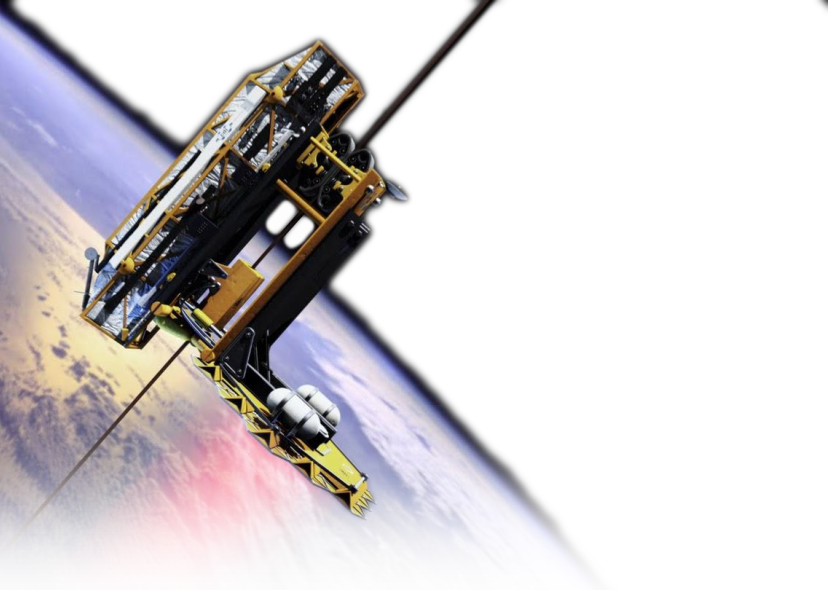
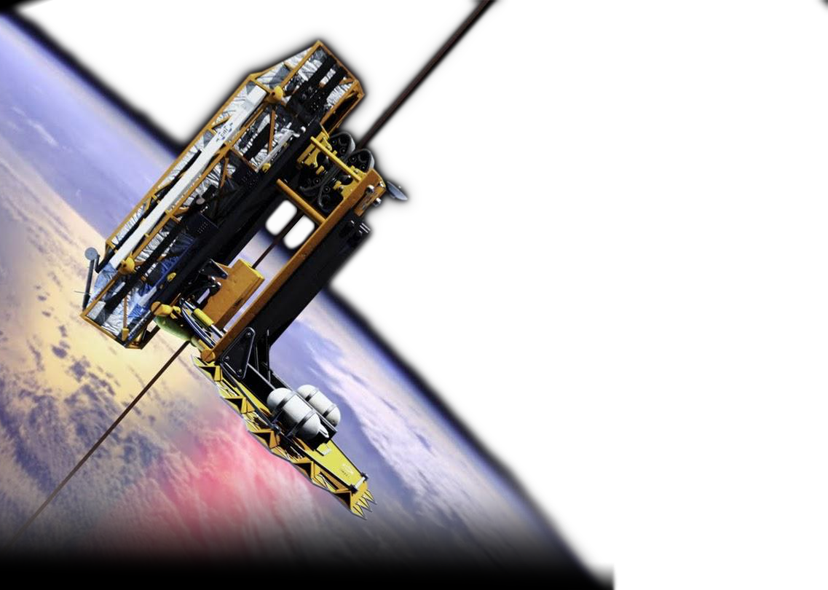
new homepage

diff --git a/styles/main.css b/styles/main.css
@@ -58,13 +58,14 @@ textarea { overflow: auto; } /* prevents scrollbar from showing up when unneeded
 html {
   min-width: 320px;
   min-height: 100%;
-  background: #fff;
+  background: url('../images/garage.jpg') center center / cover no-repeat;
 }
 
 body {
   position: relative;
   margin: 0 auto;
   background: url('../images/space.jpg');
+  box-shadow: 0 0 35px 10px black;
   min-height: 100%;
   max-width: 2000px;
   font-family: 'meteoric', sans-serif;
@@ -79,13 +80,22 @@ h4 { font-size: 2em; }
 h5 { font-size: 1.75em; }
 h6 { font-size: 1.5em; }
 
+a {
+  color: white;
+  font-weight: bold;
+  font-family: 'meteoric';
+  text-decoration: none;
+  border-bottom: 1px solid #000;
+  transition: .5s;
+}
+
+a:hover {
+  color: #777;
+  border-color: #777;
+}
+
 div#rise.hidden { opacity: 0; top: 100px; }
 div#rise {
-  position: absolute;
-  top: 0;
-  left: 0;
-  right: 0;
-  z-index: 1;
   background: url('../images/rise.png') 25% top / cover no-repeat;
   width: 100%;
   height: 100%;
@@ -98,7 +108,10 @@ div#rise {
 /* Header - Logo and Navigation */
 
 header#site-header {
-  position: relative;
+  position: absolute;
+  top: 0;
+  left: 0;
+  right: 0;
   max-width: 1100px;
   margin: auto;
   padding: .75rem;
@@ -240,9 +253,18 @@ div.logo a:hover {
 
 section#banner {
   position: relative;
+  background: url('../images/rise.png') 25% top / cover no-repeat;
+  min-height: 500px;
   height: 100vh;
   text-align: right;
   z-index: 1;
+}
+
+/* I learned a new trick, cool */
+@media all and (min-aspect-ratio: 414/295) {
+  section#banner {
+    background: url('../images/rise.png') left top / contain no-repeat;
+  }
 }
 
 h1.headline {
@@ -255,11 +277,13 @@ h1.headline {
 
 h1.headline span.the,
 h1.headline span.space,
-h1.headline span.elevator { position: relative; }
+h1.headline span.elevator,
+h1.headline span.company { position: relative; }
 
 h1.headline span.the { font-size: .75em; top: 1.2rem; }
 h1.headline span.space { font-size: 1.45em; }
 h1.headline span.elevator { font-size: .75em; top: -1rem; }
+h1.headline span.company { display: block; font-size: .4em; top: -1rem; right: 3.25em; }
 
 @media all and (min-width: 10px) {
   h1.headline {
@@ -286,5 +310,91 @@ h1.headline span.elevator { font-size: .75em; top: -1rem; }
     width: 520px;
     font-size: 5em;
   }
+}
+
+
+
+/* All The Tech Is Ready */
+
+section#ready {
+  color: white;
+  margin: 9rem auto 1rem;
+  padding: 1rem;
+  text-align: center;
+}
+
+#ready div.image {
+  margin: auto;
+  max-width: 500px;
+}
+
+#ready div.image img {
+  display: block;
+  width: 100%;
+}
+
+#ready div.copy {
+  margin: 2rem auto;
+  max-width: 500px;
+}
+
+#ready div.spacer { height: 50px; }
+
+@media all and (min-width: 700px) {
+  #ready {
+    display: flex;
+    justify-content: center;
+    align-items: center;
+  }
+  #ready div.image {
+    margin: 2rem;
+  }
+  #ready div.copy {
+    margin: 2rem;
+    text-align: left;
+  }
+}
+
+
+
+
+/* Footer */
+
+section#future {
+  position: relative;
+  background: url('../images/earth-rise.png') center center / cover no-repeat;
+  height: 85vh;
+  margin: 3rem auto 0;
+  padding: 1rem;
+  text-align: center;
+  color: white;
+}
+
+#future p.prompt {
+  position: absolute;
+  top: 5rem;
+  left: 1rem;
+  right: 1rem;
+  font-size: 1.25em;
+  font-weight: bold;
+}
+#future h2.future {
+  position: absolute;
+  max-width: 865px;
+  text-align: right;
+  bottom: 27vh;
+  left: 2rem;
+  right: 2rem;
+}
+
+#future p#copyright {
+  position: absolute;
+  bottom: 1rem;
+  right: 0;
+  left: 0;
+  text-align: center;
+  font-size: .75em;
+  font-weight: bold;
+  color: black;
 }
 

diff --git a/index.html b/index.html
@@ -9,7 +9,6 @@
     <link rel="stylesheet" href="styles/main.css">
   </head>
   <body>
-    <div id="rise" class="hidden"></div>
 
     <header id="site-header">
       <a href="index.html">
@@ -33,12 +32,30 @@
         <span class="the">The</span>
         <span class="space">Space</span>
         <span class="elevator">Elevator</span>
+        <span class="company">Company</span>
       </h1>
     </section>
 
     <section id="ready">
+      <div class="image">
+        <img src="images/tech.png" alt="Space Elevator Tech Hexagons">
+      </div>
+      <div class="copy">
+        <h2>The Technology Is Already Here</h2>
+        <p>All the technology needed to build the space elevator is already here.</p>
+        <a href="technology.html">Learn About The Tech »</a>
+        <div class="spacer"></div>
+        <h2>An Epic Voyage</h2>
+        <p>We are the world's leading experts on the space elevator concept. Join us on this extraordinary, world changing endeavor.</p>
+        <a href="join.html">Engage »</a>
+      </div>
     </section>
 
+    <section id="future">
+      <!-- <p class="prompt">With a space elevator...</p> -->
+      <h2 class="future">The Future Is Now</h2>
+      <p id="copyright">© 2022 The Space Elevator Company ® Inc.</p>
+    </section>
     <script src="scripts/form.js"></script>
   </body>
 </html>
